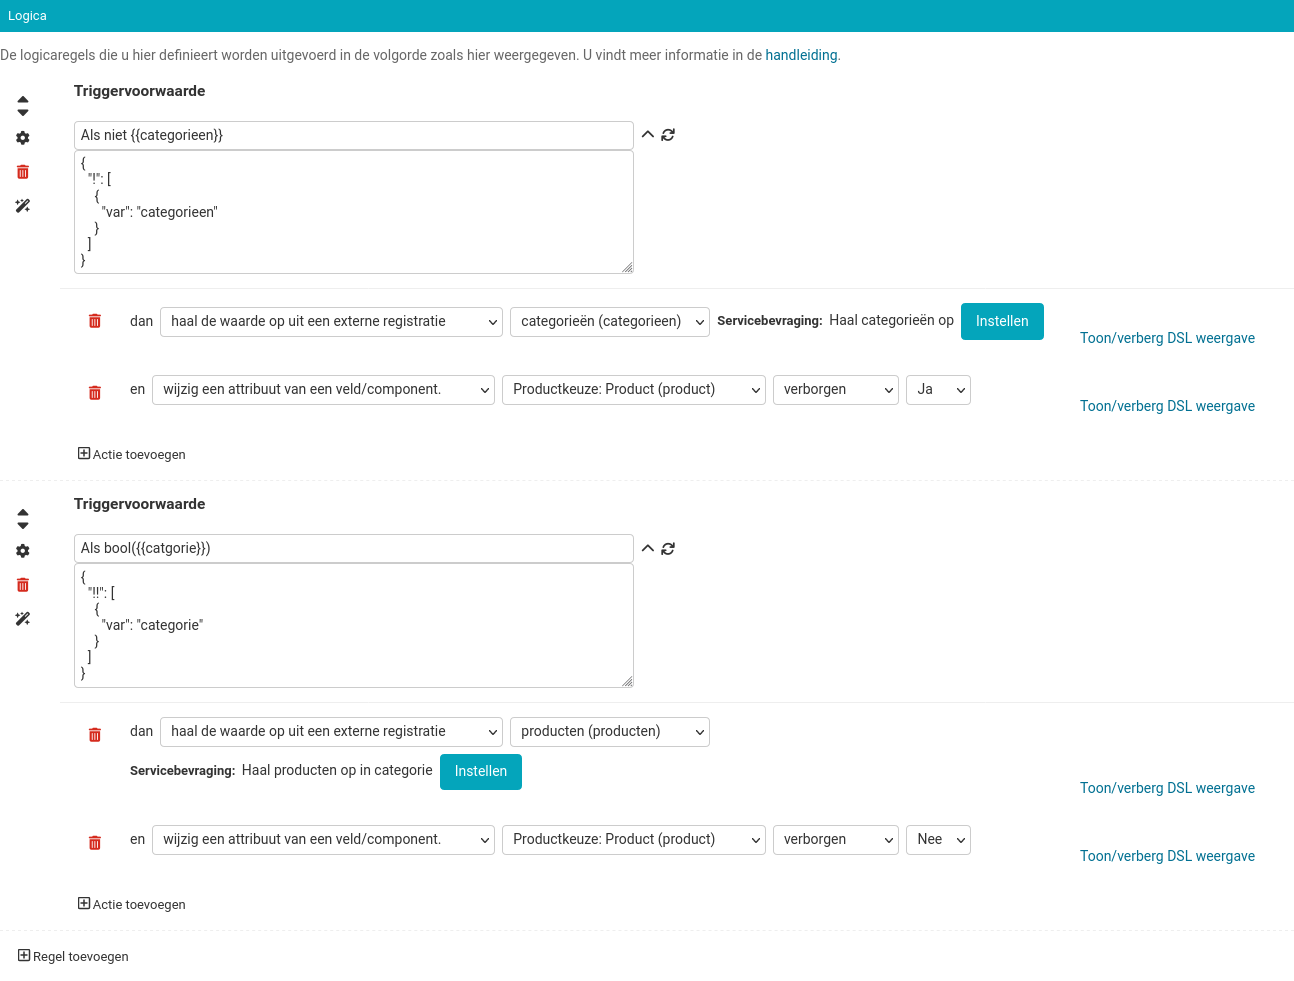
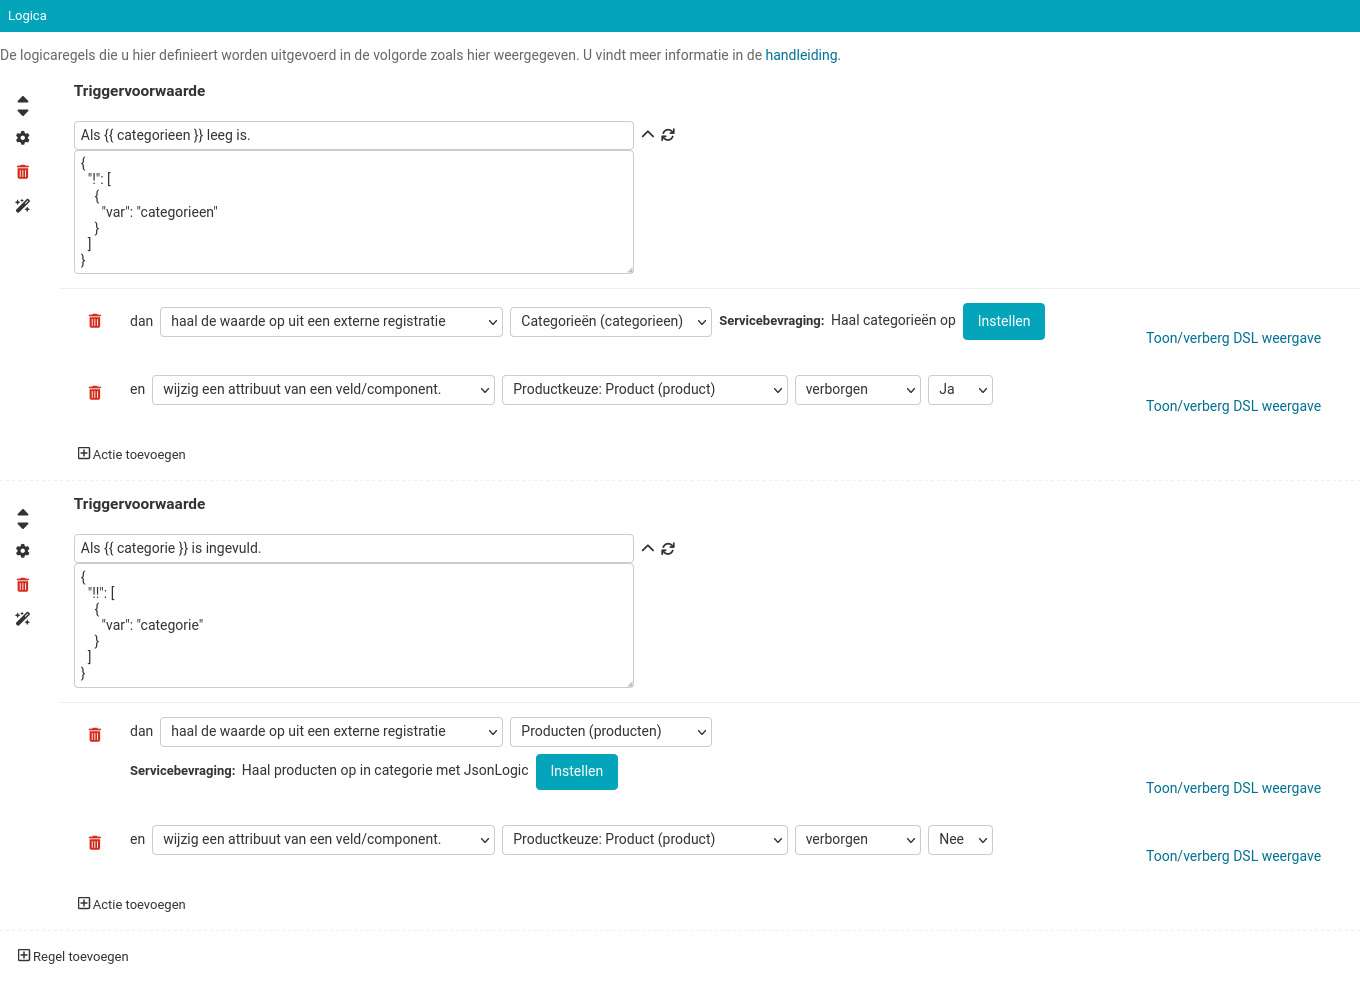
👌[#2884] Process review comments

diff --git a/docs/manual/forms/examples/service_fetch.rst b/docs/manual/forms/examples/service_fetch.rst
@@ -6,13 +6,19 @@ Formulier met waarden uit externe registraties
 
 .. note::
 
-   Dit voorbeeld maakt gebruik van de **experimentele** functionaliteit ``Bevragen
-   registraties``, welke onder **Configuratie** > **Algemene configuratie** >
+   Dit voorbeeld maakt gebruik van de **preview** functionaliteit "Bevragen
+   registraties", welke onder **Configuratie** > **Algemene configuratie** >
    **Feature flags, test- en ontwikkelinstellingen** in te schakelen is.
 
-In dit voorbeeld maken we een deel-formulier bestaande uit 1 stap, waarbij er een keuzelijst
-met product categorieën die opgehaald wordt uit de `dummyjson-service`_, welke
-keuze we verder gebruiken om de producten keuzelijst te vullen.
+In dit voorbeeld maken we een deel van een formulier bestaande uit één stap. De uitgangspunten zijn:
+
+* de `dummyjson-service`_ bied een lijst van productcategorieën aan
+* de service biedt ook een lijst van producten aan, per categorie
+* na selectie van een categorie halen we de beschikbare producten uit die
+  categorie op
+
+De keuzelijsten voor categorieën en producten worden dus dynamisch opgebouwd op
+basis van data uit een externe service.
 
 We gaan ervan uit dat u een :ref:`formulier met geavanceerde logica
 <example_advanced_logic>` kunt maken.
@@ -40,9 +46,7 @@ Formulier maken
 
     .. code-block:: json
 
-      {
-         "var": "catagorieen"
-      }
+      {"var": "catagorieen"}
 
 #. Sleep een **Keuzelijst** component op het witte vlak, vul de volgende
    gegevens in en druk daarna op **Opslaan**:
@@ -53,20 +57,22 @@ Formulier maken
 
     .. code-block:: json
 
-      {
-         "var": "producten"
-      }
+      {"var": "producten"}
 
-#. Klik op de **Variabelen** tab in het formulier menu en vervolgens op de **Gebruikersvariabelen** tab
+#. Klik op de **Variabelen** tab in het formuliermenu en vervolgens op de **Gebruikersvariabelen** tab
 
 #. Klik op **Variabele toevoegen**
 #. Voer bij **Naam** ``Categorieën`` in en kies bij **Datatype** ``Lijst (array)``
-#. Herhaal stap 11 en 12 met als **Naam** ``producten``
+#. Klik op **Variabele toevoegen**
+#. Voer bij **Naam** ``Producten`` in en kies bij **Datatype** ``Lijst (array)``
 
-#.  Klik op de **Logica** tab in het formulier menu
+#.  Klik op de **Logica** tab in het formuliermenu
 #.  Klik op **Regel toevoegen**, gevolgd door **Geavanceerd**.
-#.  Vul bij **Triggervoorwaarde** bij de JsonLogic 
-    ``{"!": [{"var": "categorieen"}]}`` in.
+#.  Vul bij **Triggervoorwaarde** deze JsonLogic in:
+
+    .. code-block:: json
+
+      {"!": [{"var": "categorieen"}]}
 
 #.  Klik op **Actie Toevoegen** en selecteer
 
@@ -76,7 +82,7 @@ Formulier maken
 
       * Vul bij **Naam** ``Haal categorieën op`` in
       * Selecteer bij **HTTP-method** ``GET``
-      * selecteer bij **Service** ``dummyJSON``
+      * Selecteer bij **Service** ``dummyJSON``
       * Vul bij **Pad** ``products/categories`` in
       * Selecteer bij **Soort mappingexpressie** ``jq``
       * Vul bij **Mappingexpressie** ``sort`` in
@@ -86,18 +92,21 @@ Formulier maken
     .. note::
 
         Omdat het antwoord van de dummyJSON service ongesorteerd is, gebruiken
-        we de `jq sort functie`_, zodat de opties in de keuzelijst op alfabet
-        komen.
+        we de `jq sort functie`_, zodat de opties in de keuzelijst op
+        alfabetische volgorde komen.
 
         |fetch_categories|
 
-        Deze actie betekent: Als ``categorieen`` leeg is, bevraag de dummyJSON
+        Deze actie betekent: als ``categorieen`` leeg is, bevraag dan de dummyJSON
         service voor ``products/categories``, sorteer het antwoord en sla deze
-        Lijst van strings op in ``categorieen``.
+        lijst van strings op in de variabele``categorieen``.
 
 #.  Klik op **Regel toevoegen**, gevolgd door **Geavanceerd**.
-#.  Vul bij **Triggervoorwaarde** bij de JsonLogic 
-    ``{"!!": [{"var": "categorie"}]}`` in.
+#.  Vul bij **Triggervoorwaarde** deze JsonLogic in:
+
+    .. code-block:: json
+
+      {"!!": [{"var": "categorie"}]}
 
 #.  Klik op **Actie Toevoegen** en selecteer
 
@@ -108,12 +117,16 @@ Formulier maken
       * Vul bij **Naam** ``Haal producten in categorie op`` in
       * Selecteer bij **HTTP-method** ``GET``
       * selecteer bij **Service** ``dummyJSON``
-      * Vul bij **Pad** ``products/category/{{categorie}}`` in
+      * Vul bij **Pad** ``products/category/{{ categorie }}`` in
       * Selecteer bij **Soort mappingexpressie** ``JsonLogic``
-      * Vul bij **Mappingexpressie** ``{"map": [
-        {"var": "products"},
-        {"merge": [ {"var": "id"}, {"var": "title"} ]}
-        ]}`` in
+      * Vul bij **Mappingexpressie** het volgende in:
+
+      .. code-block:: json
+
+        {"map": [
+          {"var": "products"},
+          {"merge": [ {"var": "id"}, {"var": "title"} ]}
+        ]}
 
     * Klik op **Opslaan**
 
@@ -121,11 +134,12 @@ Formulier maken
 
        |fetch_products|
 
-       Deze actie betekent: Als er een ``categorie`` is gekozen, bevraag de
-       dummyJSON service voor ``products/category/{{categorie}}`` met de
+       Deze actie betekent: als er een ``categorie`` is gekozen, bevraag dan de
+       dummyJSON service voor ``products/category/{{ categorie }}`` met de
        gekozen categorie in het pad, neem van elk product object in het
        ``products`` attribuut van het antwoord, de ``id`` en ``title`` en sla
-       de resulterende lijst van lijsten van 2 strings op in ``producten``.
+       de resulterende lijst van lijsten van 2 strings op in de
+       variabele``producten``.
 
 #.  Klik onderaan op **Opslaan** om het formulier volledig op te slaan.
 
@@ -142,8 +156,8 @@ keuzelijst alleen zichtbaar is wanneer er een categorie gekozen is:
    omdat er op antwoorden gewacht moet worden. Probeer door handig gebruik van
    variabelen en triggers, deze bevragingen tot een minimum te beperken.
 
-   ``Bevragen registraties`` is nog experimenteel van aard. Bekende missende of
-   beperkte functionaliteiten zijn onder andere:
+   "Bevragen registraties" is nog geschikt voor gebruik, maar nog onvolledig.
+   Bekende missende of beperkte functionaliteiten zijn onder andere:
 
    * `het "Probeer het uit" tabje <https://github.com/open-formulieren/open-forms/issues/2777>`_
    * `export/import <https://github.com/open-formulieren/open-forms/issues/2683>`_
@@ -153,9 +167,9 @@ keuzelijst alleen zichtbaar is wanneer er een categorie gekozen is:
    Door de agile aard van de ontwikkeling staan deze issues staan op het moment
    **niet** op een roadmap.
    
-   Daarnaast kan de manier van invoegen van formulier data in de bevragingen
-   van syntax veranderen. Op dit moment kunt u met de bekende ``{{variable
-   sleutel}}`` syntaxis, waarden invoegen in
+   Daarnaast kan de manier van invoegen van formulierdata in de bevragingen van
+   syntax veranderen. Op dit moment kunt u met de bekende ``{{ variabelesleutel
+   }}`` syntaxis, waarden invoegen in
 
    * Pad
    * **waarden** van Query-parameters (niet de *sleutels*)
@@ -168,7 +182,7 @@ keuzelijst alleen zichtbaar is wanneer er een categorie gekozen is:
 
 .. |fetch_products|
    image:: _assets/service_fetch_products_in_category.png
-   :alt: screenshot van de servicebevraging "Haal productin in categorie op"
+   :alt: screenshot van de servicebevraging "Haal producten in gekozen categorie op"
 
 .. |logic| 
    image:: _assets/service_fetch_logic.png
